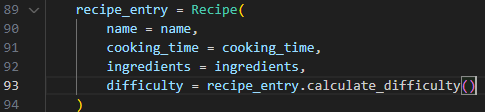
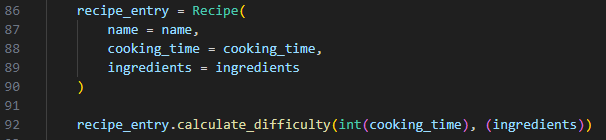
Updated create_recipe function

diff --git a/Exercise1.7/Main_task/recipe_app.py b/Exercise1.7/Main_task/recipe_app.py
@@ -24,13 +24,9 @@ class Recipe(Base):
         return "<Recipe ID: " + self.id + " - " + self.name +", " + self.difficulty + ">"
     
     def __str__(self):
-        print("\n" + "-"*20)
-        print("Recipe name: " + self.name + "\tRecipe ID: " + self.id)
-        print("Cooking time: " + self.cooking_time + "\nDifficulty: " + self.difficulty)
-        print("Ingredients: ")
-        for ingredient in self.ingredients.split(", "):
-            print("- " + ingredient)
-        print("-"*20 + "\n")
+        return "\n" + "-"*20 + "\nRecipe name: " + self.name + "\tRecipe ID: " + str(self.id) +\
+        "\n\nCooking time: " + str(self.cooking_time) + "\t\tDifficulty: " + self.difficulty +\
+        "\n\nIngredients: " + self.ingredients + "\n" + "-"*20 + "\n"
 
     def calculate_difficulty(self, cooking_time, ingredients):
         short_cooking_time = cooking_time < 10
@@ -60,46 +56,59 @@ Base.metadata.create_all(engine)
 def create_recipe():
     name = input("Enter the name of the recipe (maximal 50 characters): ")
     if len(name) > 50:
-        print("\n Error: Recipe name can only be 50 characters long.")
+        print("\n Error: Recipe name can only be 50 characters long. Returning to main menu.")
         return
     
     cooking_time = input("Enter cooking time in minutes (accepts only numbers): ")
     if not cooking_time.isnumeric():
-        print("\nError: Cooking time can only contain numbers")
+        print("\nError: Cooking time can only contain numbers. Returning to main menu.")
         return
     
     ingredients = []
     
-    number_of_ingredients = input("How many ingredients would you like to add?")
+    number_of_ingredients = input("How many ingredients would you like to add? ")
     if not number_of_ingredients.isnumeric():
-        print("\n Error: Ingredient number can contain only numbers.")
+        print("\n Error: Ingredient number can contain only numbers. Returning to main menu.")
         return
 
     i = 0
-    while i > number_of_ingredients:
+    temporary_ingredients = ""
+
+    while i < int(number_of_ingredients):
         ingredient_to_add = input("Enter the name of the ingredient: ")
         ingredients.append(ingredient_to_add.lower())
+
+        temporary_ingredients = ", ".join(ingredients)
+        print(temporary_ingredients)
+        if i < int(number_of_ingredients) - 2:
+            print("Remaining characters: " + str(255 - len(temporary_ingredients) - 2))
+        elif i < int(number_of_ingredients) - 1:
+            print("Remaining characters: " + str(255 - len(temporary_ingredients)))
+
+        i += 1
 
     ingredients = ", ".join(ingredients)
     if len(ingredients) > 255:
         print("Error: ingredients accepts maximum 255 characters" + 
-              " (Characters of ingredient + 2 at every ingredient)")
+              " (Characters of ingredient + 2 at every ingredient). Returning to main menu.")
         return
     
     recipe_entry = Recipe(
         name = name,
         cooking_time = cooking_time,
-        ingredients = ingredients,
-        difficulty = recipe_entry.calculate_difficulty()
+        ingredients = ingredients
     )
 
+    recipe_entry.calculate_difficulty(int(cooking_time), (ingredients))
+
     session.add(recipe_entry)
+    session.commit()
 
 def view_all_recipes():
     all_recipes = session.query(Recipe).all()
 
     if session.query(Recipe).count() == 0:
-        print("There is no recipes in the database.")
+        print("There is no recipes in the database.  Returning to main menu.")
         return None
     
     for recipe in all_recipes:
